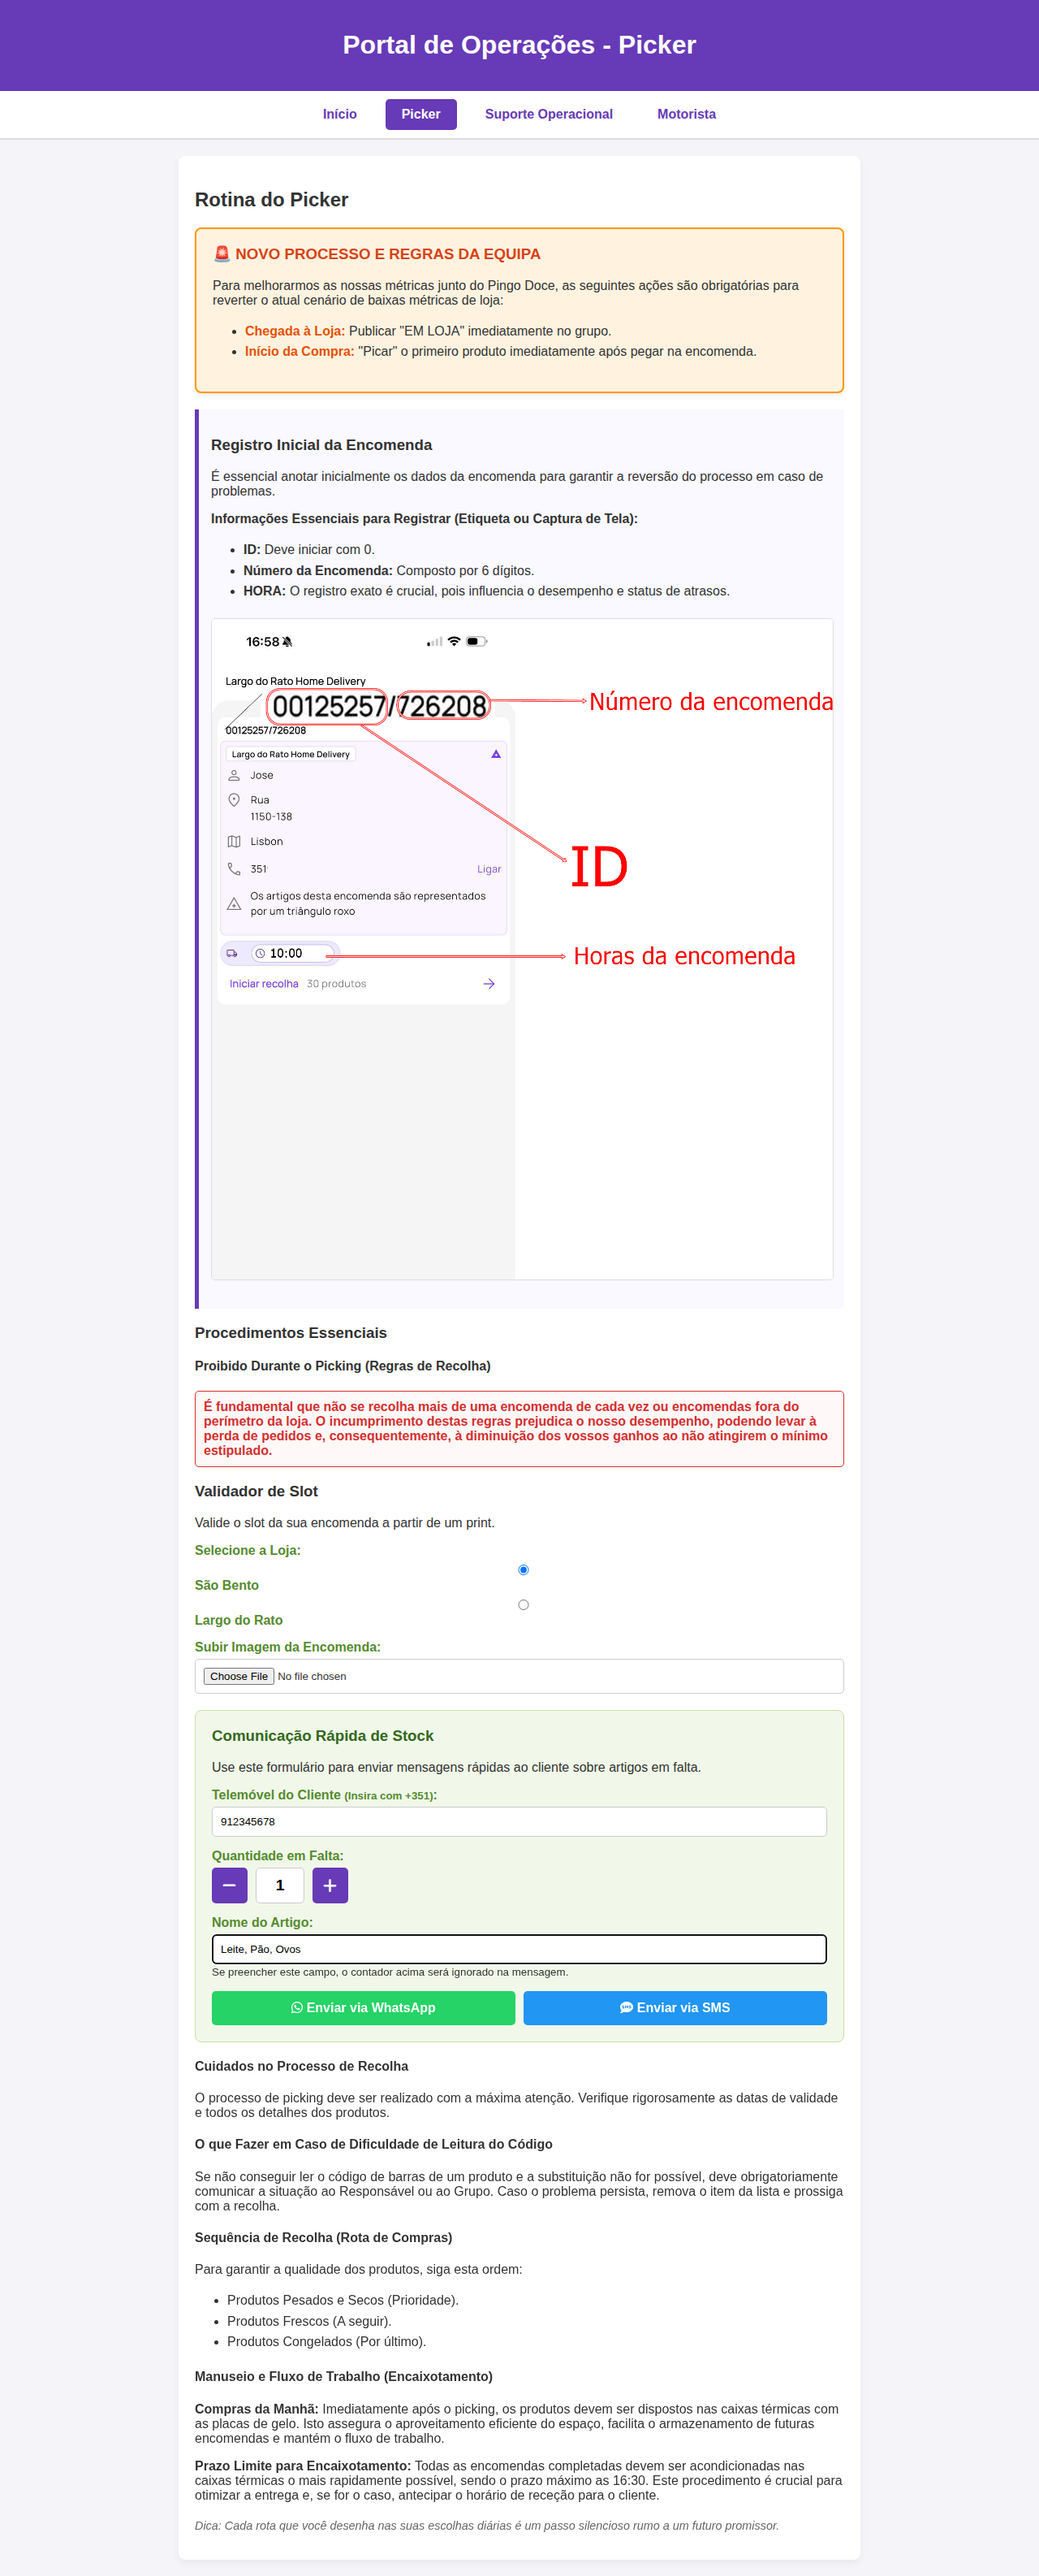
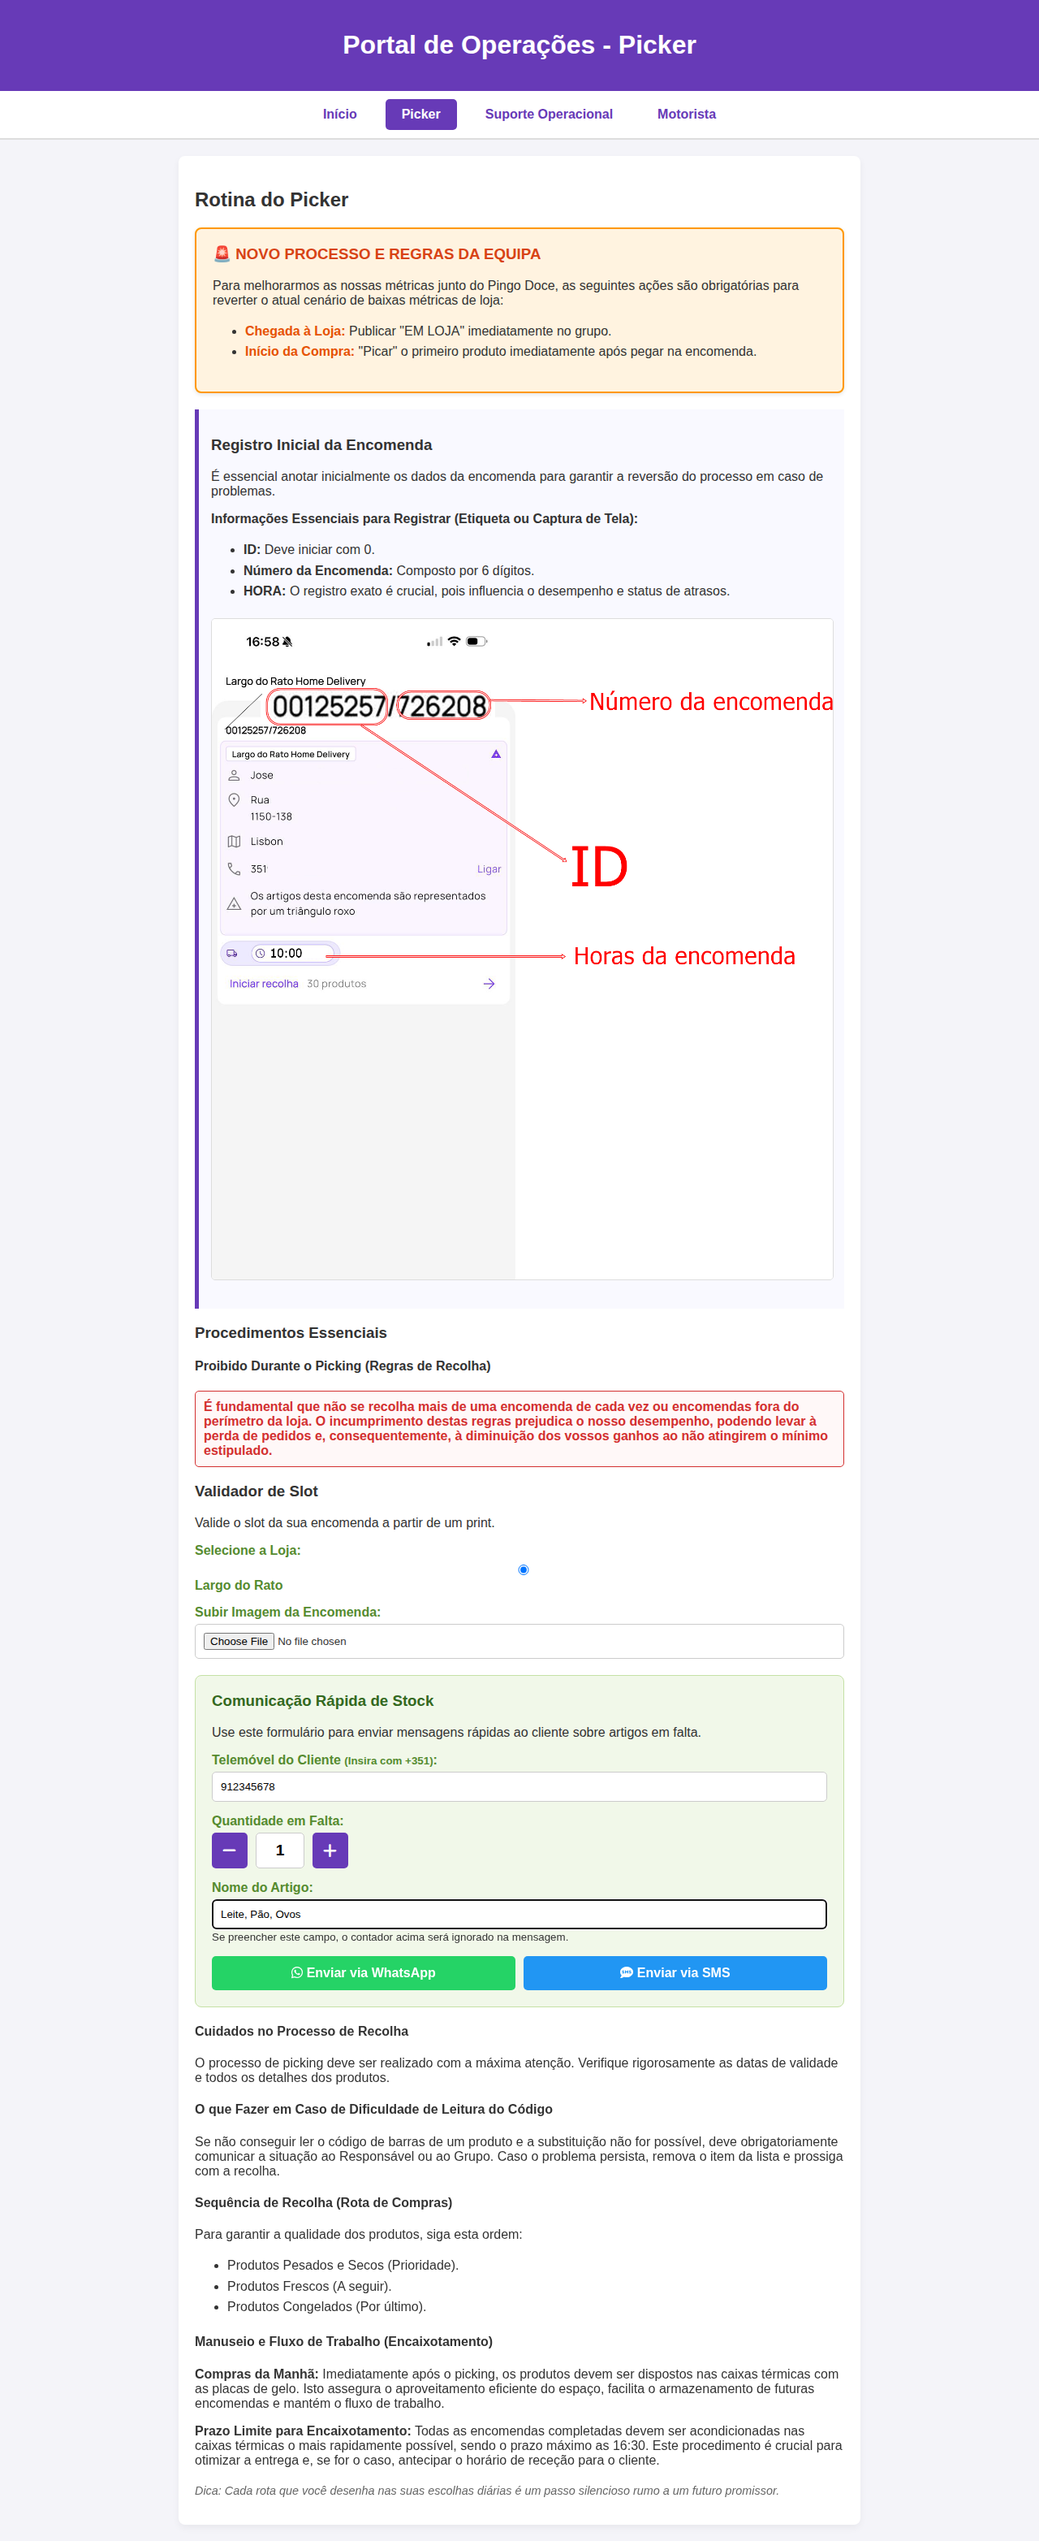
Hide São Bento store option and make Largo do Rato default
- In `pages/picker.html`, hid the "São Bento" radio input and its label using `display: none;`.
- Set the "Largo do Rato" store option to be checked by default.

diff --git a/pages/picker.html b/pages/picker.html
@@ -57,10 +57,10 @@
         <div class="form-group">
             <label>Selecione a Loja:</label>
             <div class="store-selection">
-                <input type="radio" id="loja-sao-bento" name="loja" value="sao-bento" checked>
-                <label for="loja-sao-bento">São Bento</label>
+                <input type="radio" id="loja-sao-bento" name="loja" value="sao-bento" style="display: none;">
+                <label for="loja-sao-bento" style="display: none;">São Bento</label>
 
-                <input type="radio" id="loja-rato" name="loja" value="rato">
+                <input type="radio" id="loja-rato" name="loja" value="rato" checked>
                 <label for="loja-rato">Largo do Rato</label>
             </div>
         </div>
